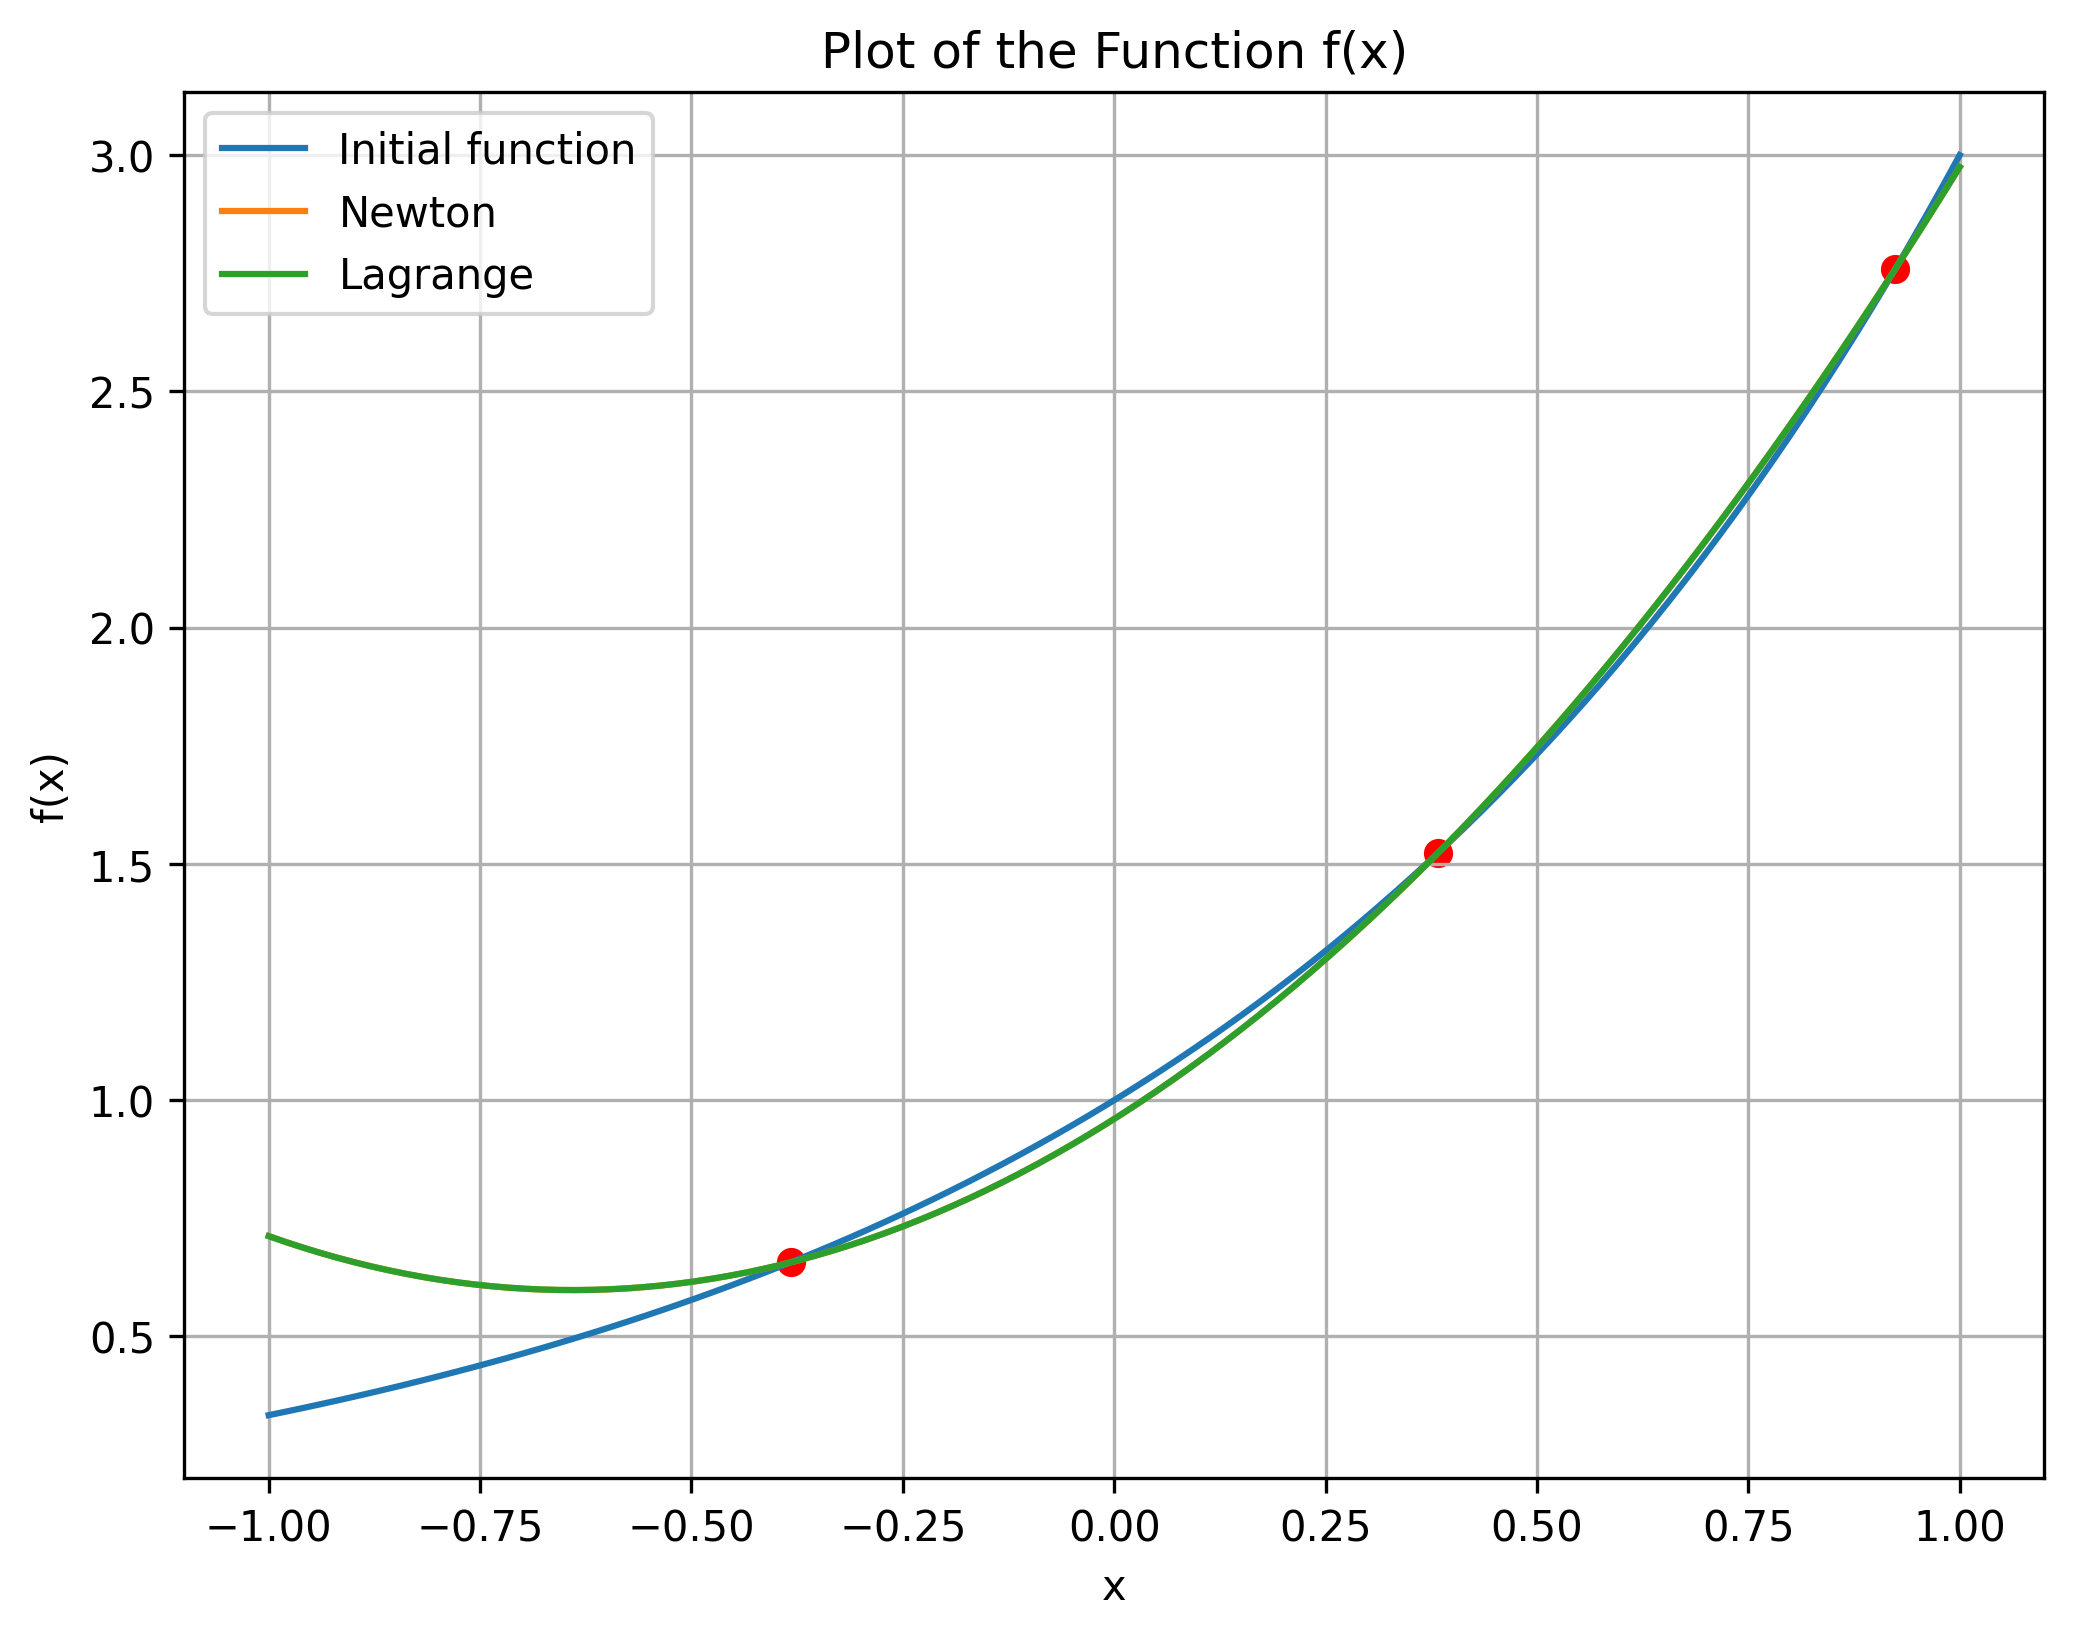
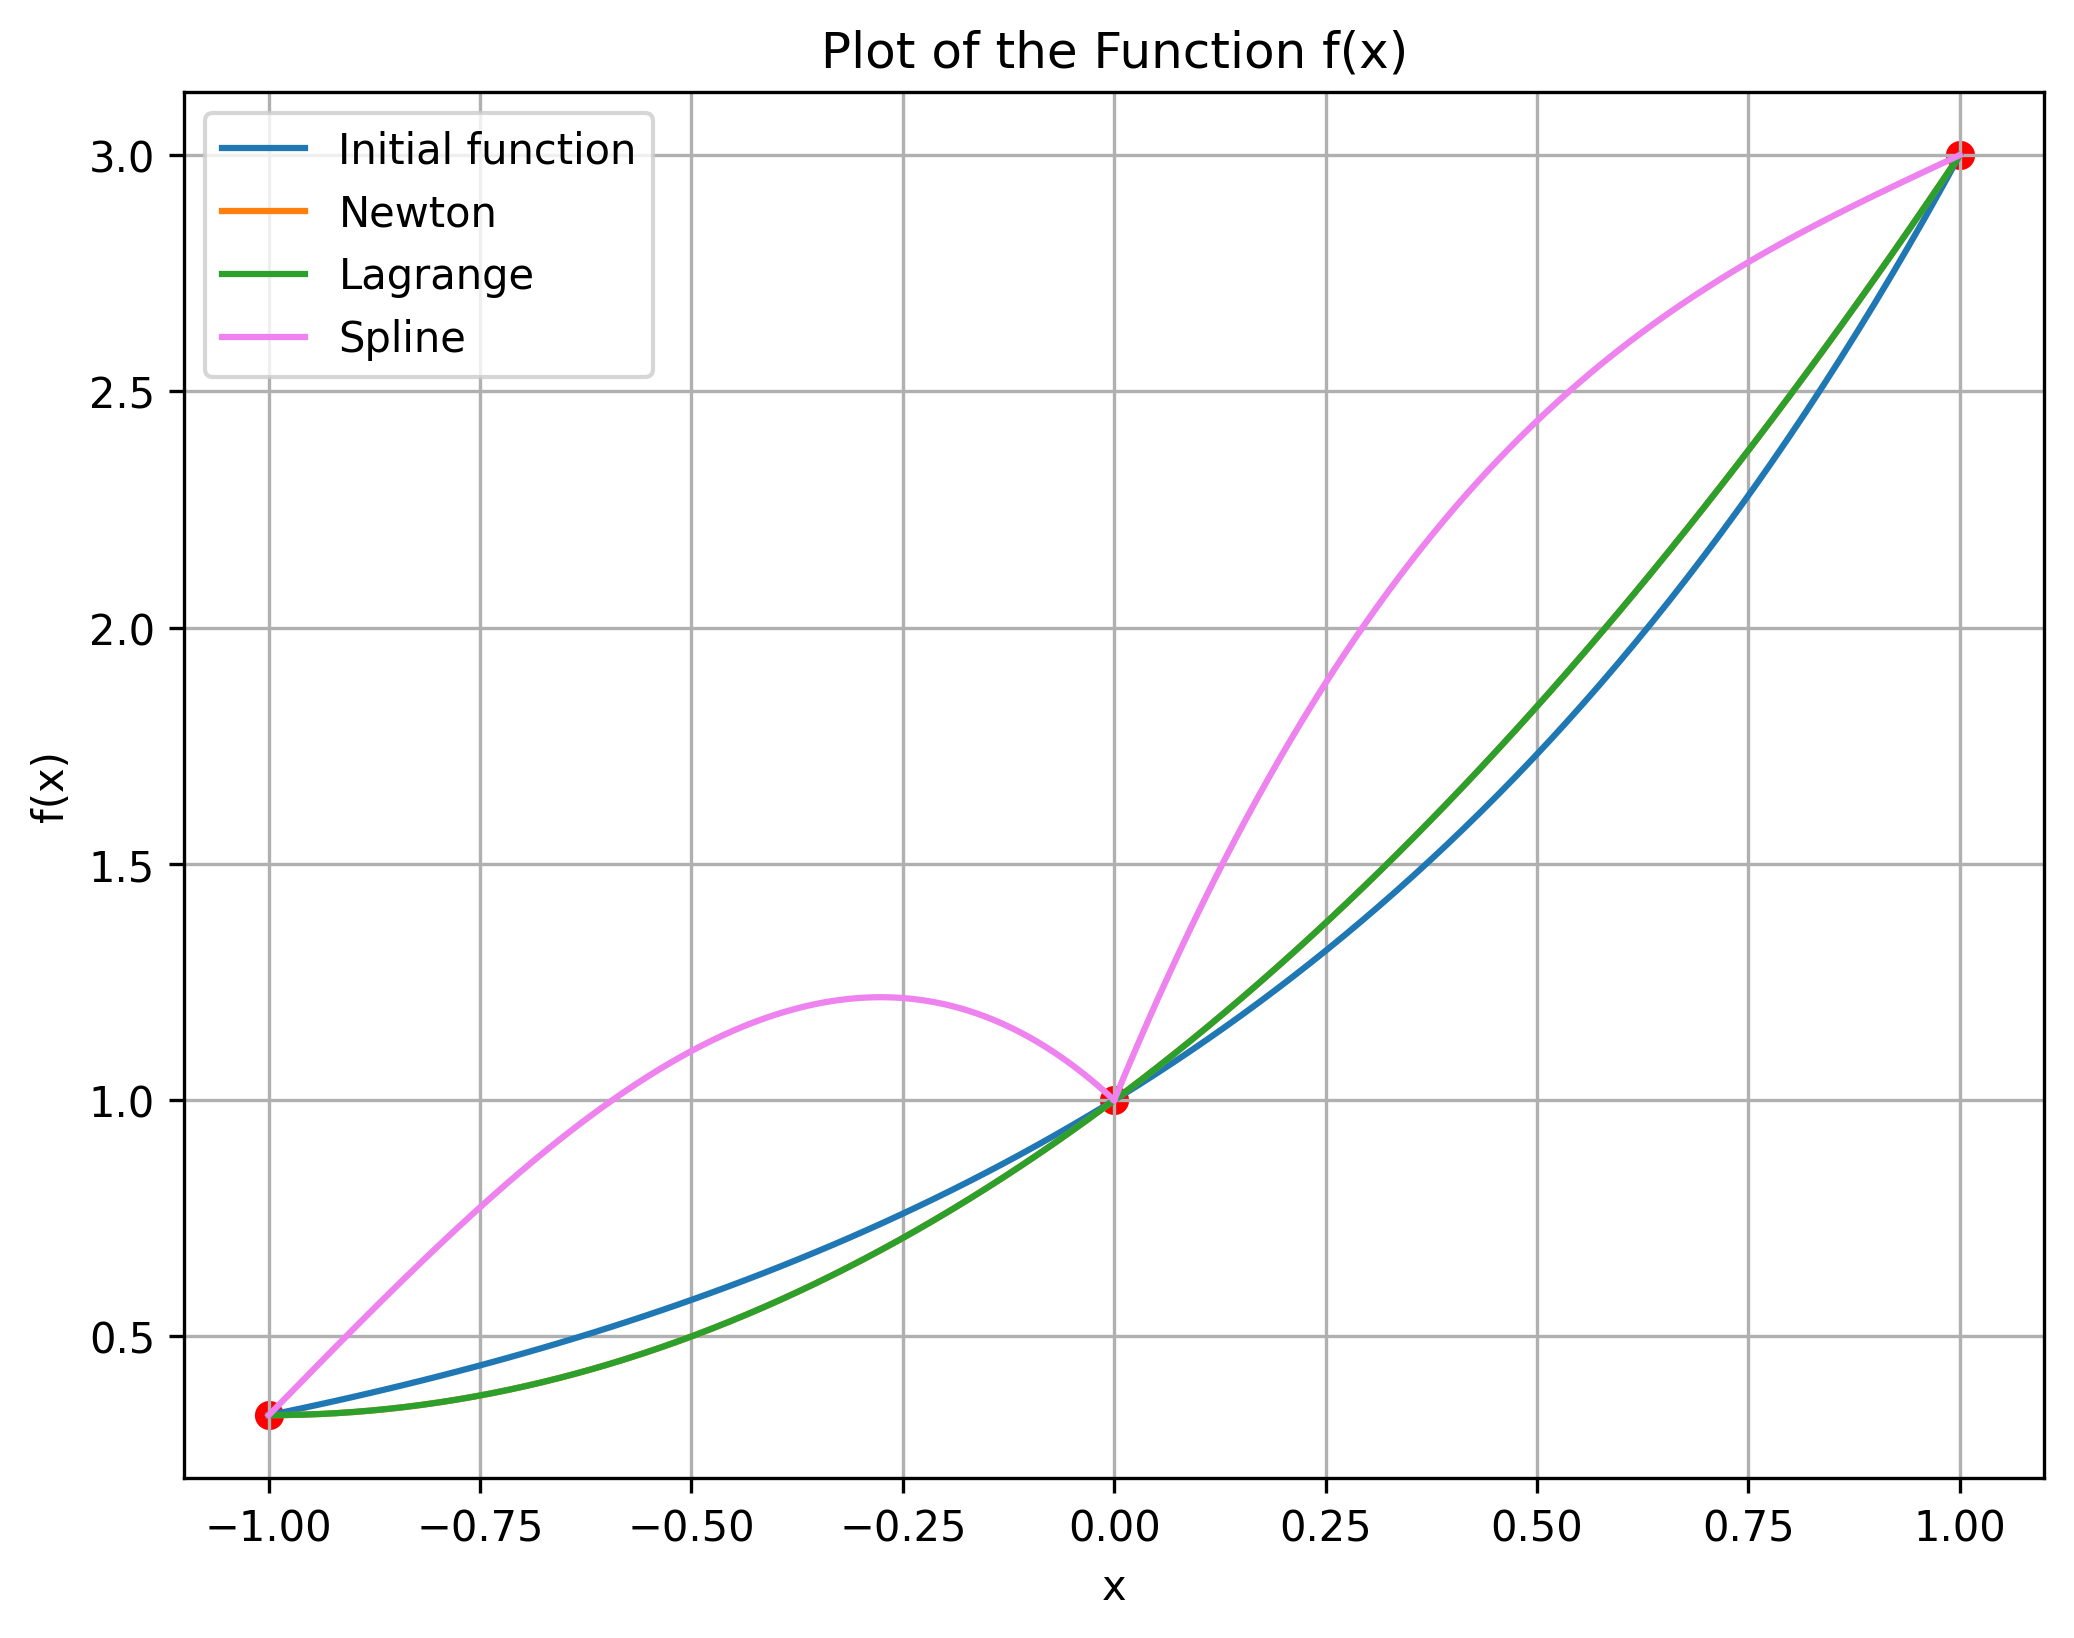
added Spline label

diff --git a/lab5/code/plot.py b/lab5/code/plot.py
@@ -4,6 +4,7 @@ import sympy as sp
 import preprocessor as pr
 import newton as nw
 import lagrange as lg
+import spline as sl
 
 
 def init_and_plot():
@@ -12,7 +13,7 @@ def init_and_plot():
     a = -1
     b = 1
     n = 3
-    strategy = 'Optimal'
+    strategy = 'Even'
     plot(x, expr, a, b, n, strategy)
 
 
@@ -35,11 +36,26 @@ def init_plot():
     plt.title('Plot of the Function f(x)')
 
 
+def plot_spline(spline_map):
+    num_points = 1000
+    x = sp.symbols('x')
+    f = False
+    for (x1, x2), expr in spline_map.items():
+        numpy_function = sp.lambdify(x, expr, 'numpy')
+        x_range = np.linspace(x1, x2, num_points)
+        y_values = numpy_function(x_range)
+        if f:
+            plt.plot(x_range, y_values, color='violet')
+        else:
+            f = True
+            plt.plot(x_range, y_values, color='violet', label='Spline')
+
+
 def plot(x, expr, a, b, n, strategy='Optimal'):
     if strategy == 'Optimal':
-        chosen_vals = pr.optimal_values(expr, a, b, n, 3)
+        chosen_vals = pr.optimal_values(expr, a, b, n)
     elif strategy == 'Even':
-        chosen_vals = pr.even_values(expr, a, b, n, 3)
+        chosen_vals = pr.even_values(expr, a, b, n)
     else:
         raise ValueError('Unknown strategy!')
 
@@ -50,6 +66,8 @@ def plot(x, expr, a, b, n, strategy='Optimal'):
     add_to_plot(x, newton, a, b, 'Newton')
     lagrange = lg.lagrange_interpolation(chosen_vals)
     add_to_plot(x, lagrange, a, b, 'Lagrange')
+    spline = sl.spline_interpolation(chosen_vals)
+    plot_spline(spline)
 
     add_points(chosen_vals)
     plt.grid(True)

diff --git a/lab5/code/spline.py b/lab5/code/spline.py
@@ -30,11 +30,11 @@ def define_f(vals):
 
 
 def get_h(vals, i):
-    return vals.argument(i + 1) - vals.argument(i)
+    return vals[i].argument() - vals[i - 1].argument()
 
 
 def define_h(vals):
-    m = len(vals) - 1
+    m = len(vals) - 2
     h_matrix = np.zeros((m, m + 2))
     for i in range(m):
         h_matrix[i][i] = 1 / get_h(vals, i)
@@ -60,14 +60,15 @@ def spline_interpolation(vals):
     h_matrix = define_h(vals)
     f_vector = define_f(vals)
     x_vector = define_x(vals)
-    b_vector = h_matrix.dot(f_vector)
+    b_vector = h_matrix.dot(f_vector).astype(np.float64)
     m_vector = solve(a_matrix, b_vector)
     splines = {}
-    for i in range(1, len(m_vector)):
+    m_full = [0, m_vector, 0]
+    for i in range(1, len(m_full)):
         h = get_h(vals, i)
-        s = (m_vector[i - 1] * (x_vector[i] - x) ** 3 / (6 * get_h(vals, i)) +
-             + m_vector[i] * (x - x_vector[i - 1]) ** 3 / (6 * h) +
-             + (f_vector[i - 1] - m_vector[i - 1] * h ** 2 / 6) * (x_vector[i] - x) / h +
-             + (f_vector[i] - m_vector[i] * get_h(vals, i) ** 2 / 6) * (x - x_vector[i - 1]) / h)
-        splines[(x_vector[i], x_vector[i + 1])] = s
+        s = (m_full[i - 1] * (x_vector[i] - x) ** 3 / (6 * h) +
+             + m_full[i] * (x - x_vector[i - 1]) ** 3 / (6 * h) +
+             + (f_vector[i - 1] - m_full[i - 1] * h ** 2 / 6) * (x_vector[i] - x) / h +
+             + (f_vector[i] - m_full[i] * h ** 2 / 6) * (x - x_vector[i - 1]) / h)
+        splines[(x_vector[i - 1], x_vector[i])] = s[0]
     return splines

diff --git a/lab5/code/preprocessor.py b/lab5/code/preprocessor.py
@@ -13,12 +13,14 @@ def nth_derivative_at_x0(expr_str, n, x0):
 def optimal_values(function, a, b, n, rank=0):
     if a > b:
         raise ValueError("Illegal range!")
-    vals_arr = []
+    vals_arr = [to_add(function, a, rank)]
     ab_sum = (a + b) / 2
     ab_diff = (b - a) / 2
-    for i in range(n):
-        x = ab_sum + ab_diff * np.cos((2 * i + 1) * np.pi / (2 * (n + 1)))
-        to_add(function, x, rank)
+    m = n - 2
+    for i in range(m):
+        x = ab_sum + ab_diff * np.cos((2 * i + 1) * np.pi / (2 * (m + 1)))
+        vals_arr.append(to_add(function, x, rank))
+    vals_arr.append(to_add(function, b, rank))
     return vals_arr
 
 
@@ -42,5 +44,5 @@ def to_add(function, x, rank):
     f = v.at(function, x)
     arr = [x, f]
     for j in range(rank):
-        arr.append(nth_derivative_at_x0(function, x, j + 1))
+        arr.append(nth_derivative_at_x0(function, x, j))
     return v.Val(arr)
